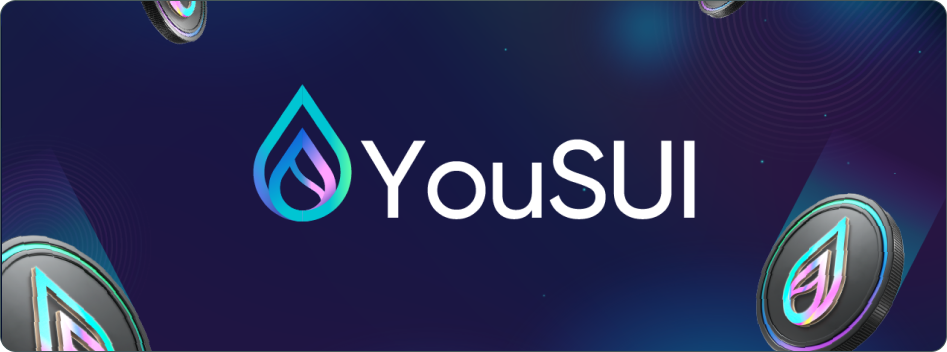
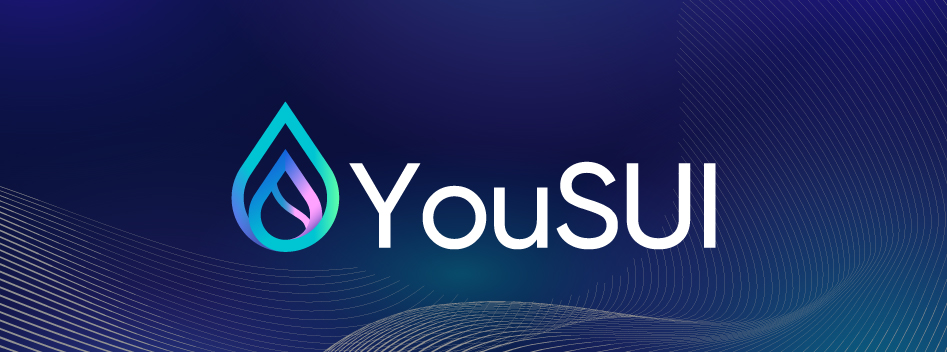
update

diff --git a/src/components/whitepaper/wppContent.js b/src/components/whitepaper/wppContent.js
@@ -5,7 +5,7 @@ export const wppContent = [
         category: 'Introduction of YouSUI',
         description: [
             {
-                content: [<img src="/images/whitepaper/yousui.jpg" alt="" />],
+                content: [<img src="/images/whitepaper/intro.png" alt="" />],
             },
             {
                 title: 'The History',
